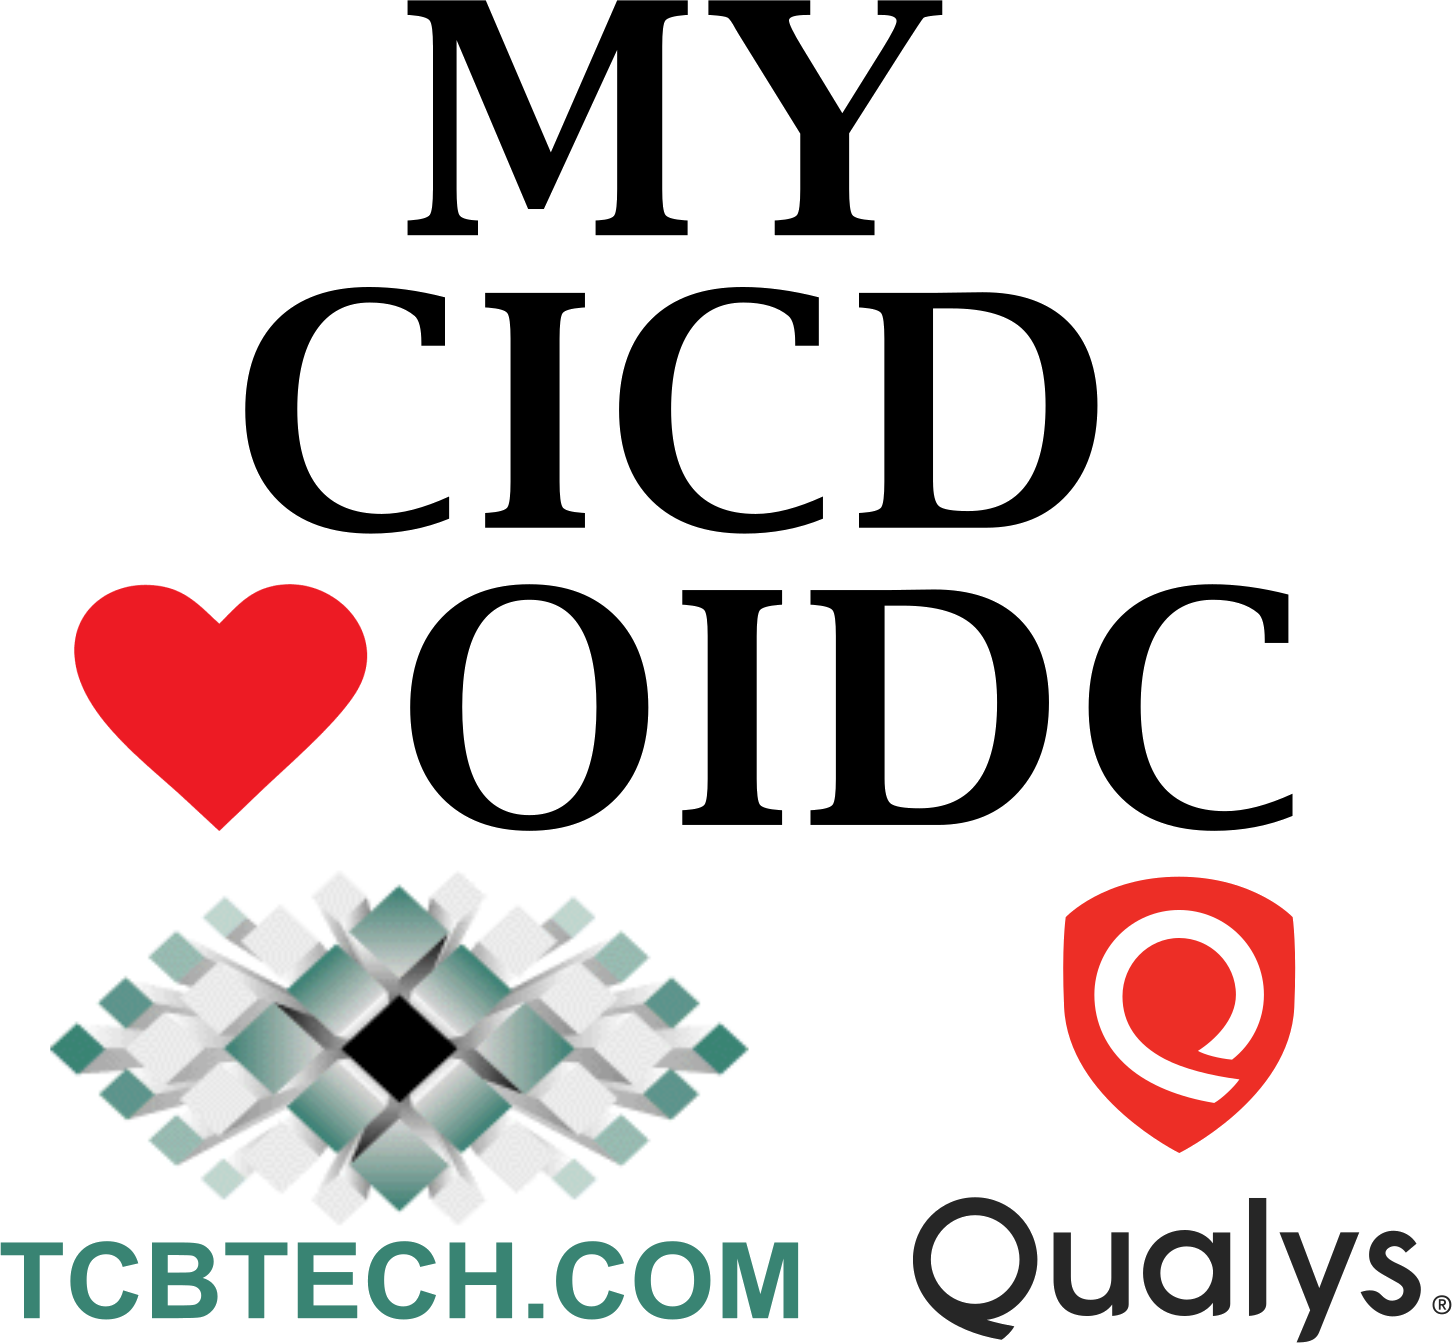
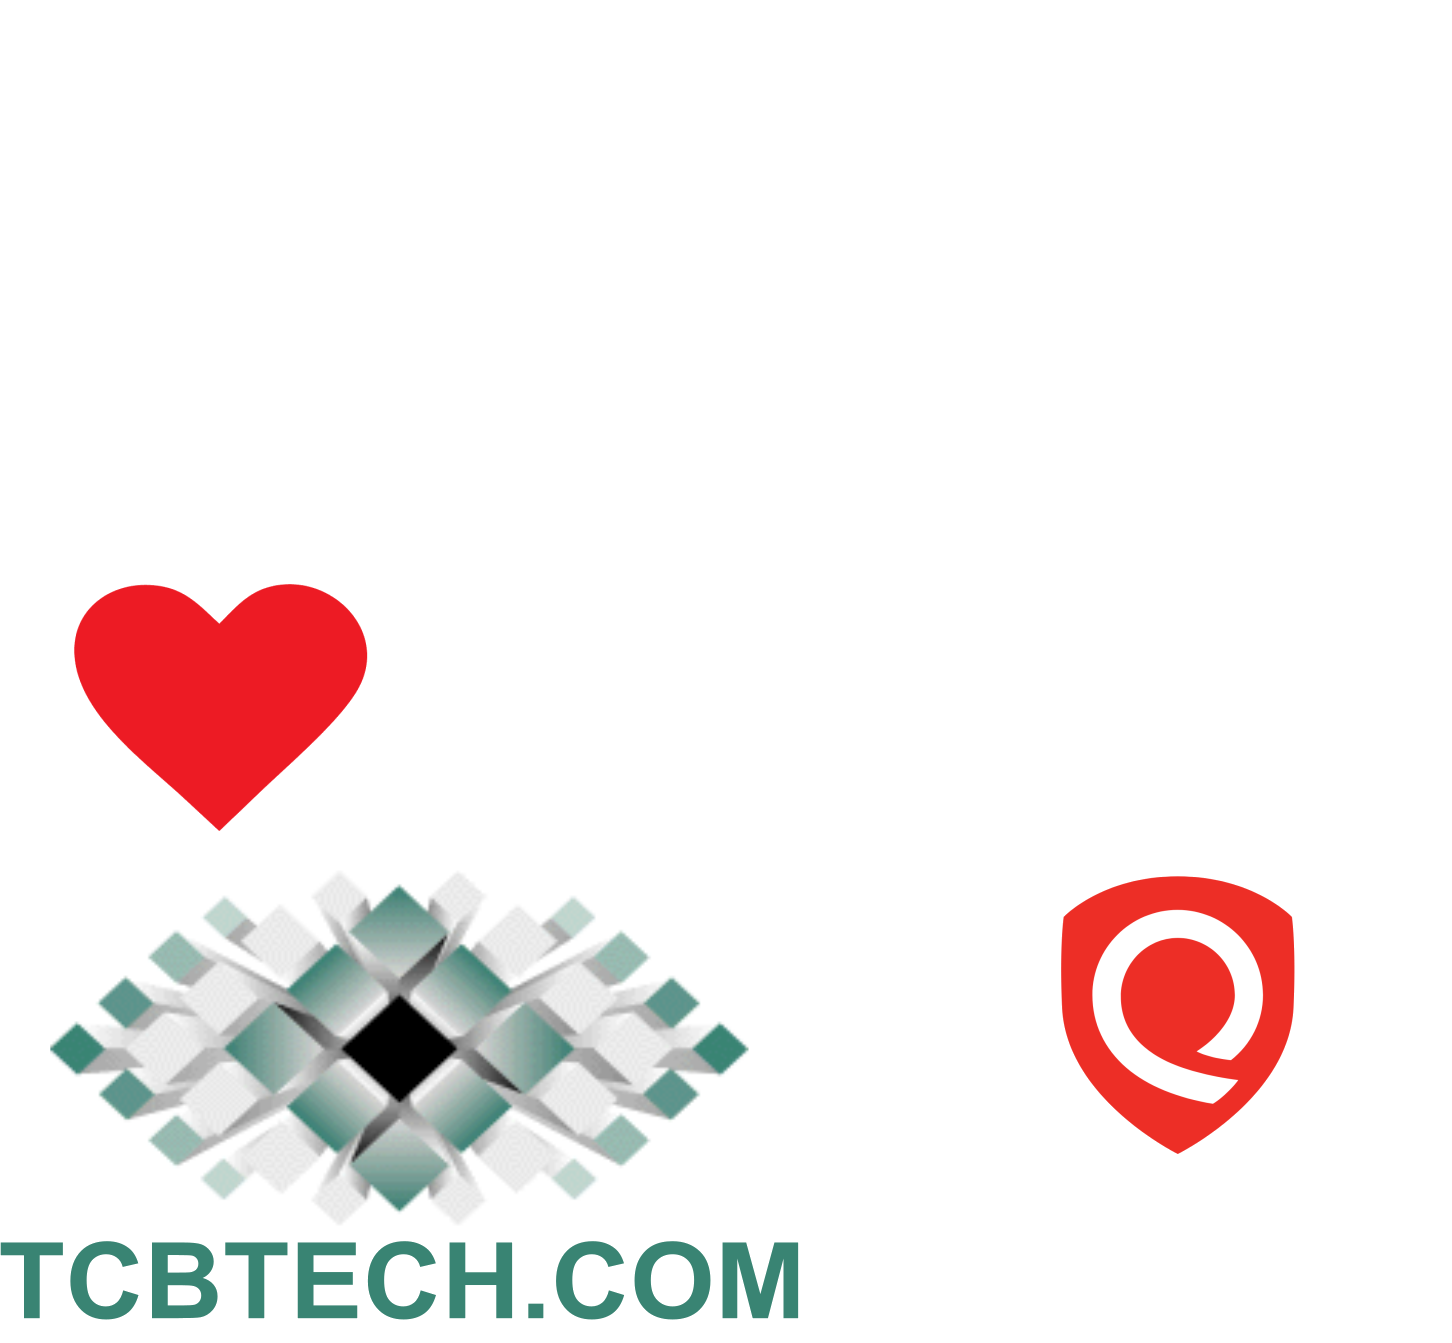
Updated presentation for black background and added bsides image to slides.

diff --git a/presentations/bsidesseattle24/presentation.md b/presentations/bsidesseattle24/presentation.md
@@ -4,9 +4,13 @@ title: OIDC Everywhere, or at least in CICD
 theme: gaia
 style: |
   section {
-    color: #000;
-    background-color: #ccc;
+    color: #fff;
+    background-color: #000;
+    background-image:url(images/bsidessea-sm.jpg);
+    background-repeat: no-repeat;
+    background-position: bottom 50px right 50px;
   }
+
   img[alt="Ted Hahn"] { height: 100px; }
   img[alt="Mark Hahn"] { height: 100px; }
   img[alt="TCB Logo"] { height: 66px; }
@@ -573,9 +577,11 @@ SubNote: Saying that developers can't write the own pipelines still does not sol
 - https://docs.gitlab.com/ee/ci/cloud_services/aws/index.html
 - https://docs.gitlab.com/ee/ci/cloud_services/google_cloud/
 
+## https://tcbtech.com/bsides24
 ---
 <div class="columns">
 <div>
+<br>
 
 ![My CICD Loves OIDC](images/CICD_Heart_OIDC.png)
 
